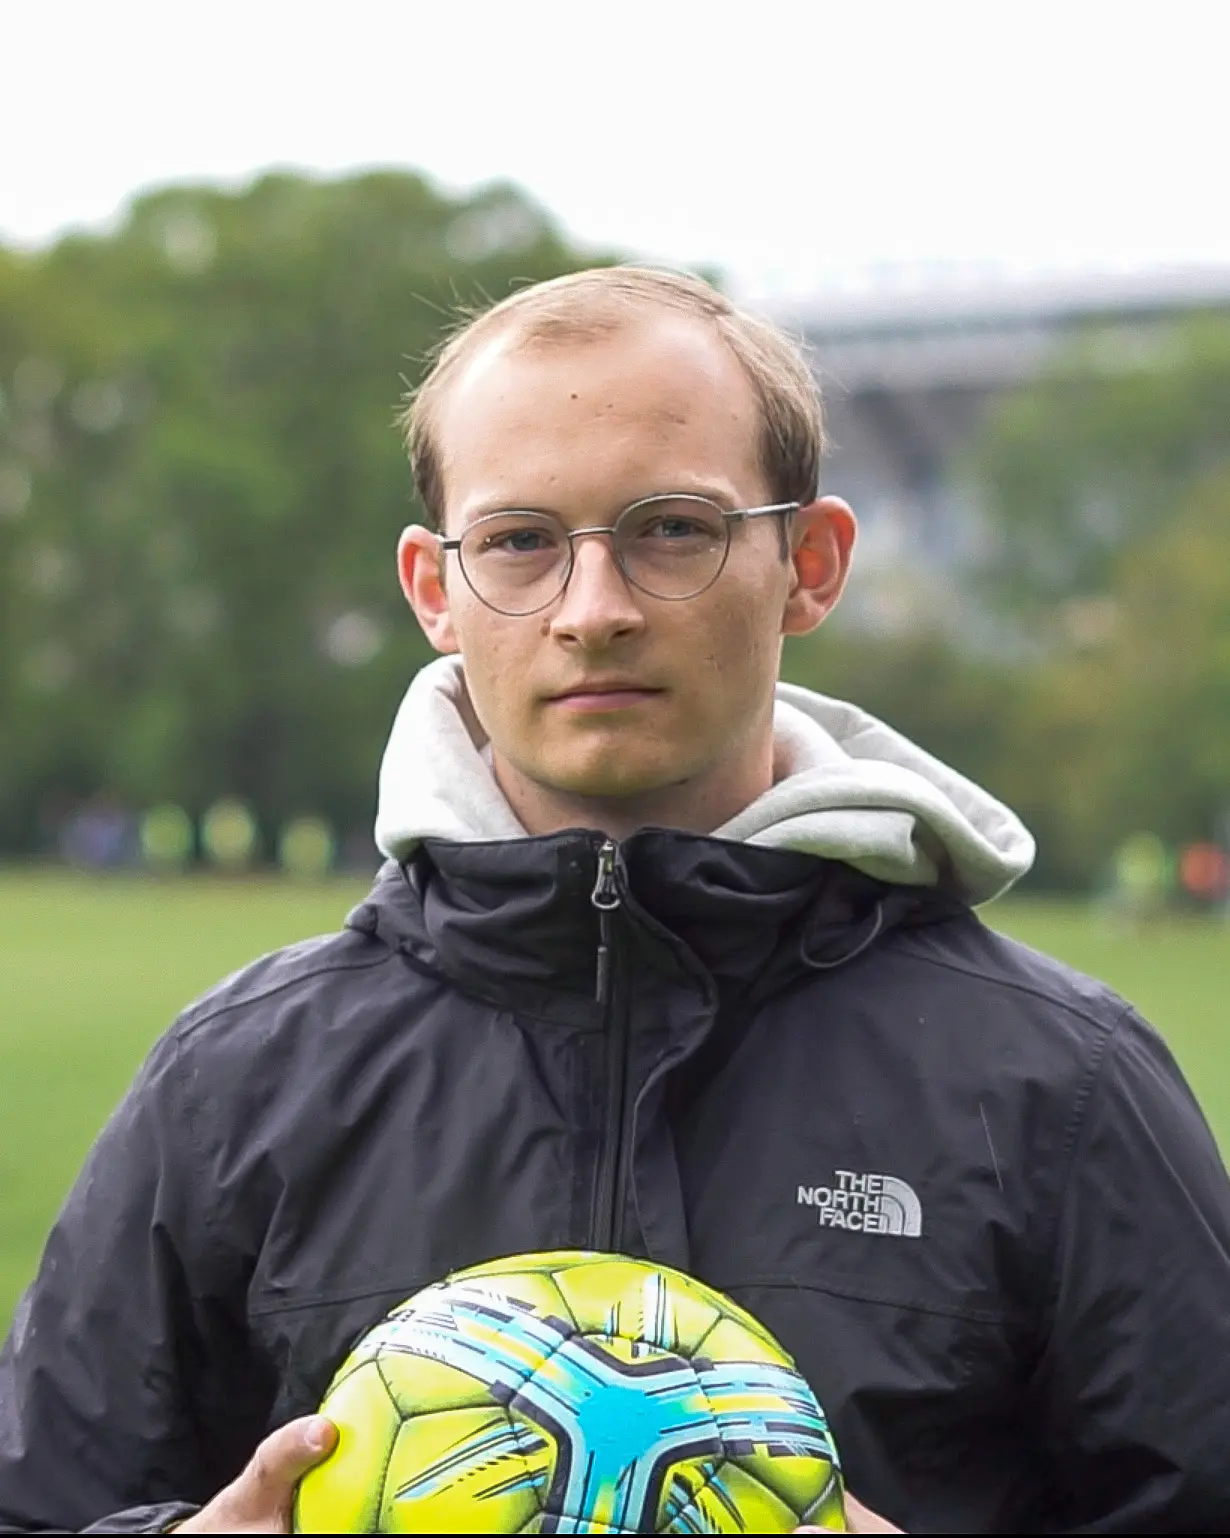
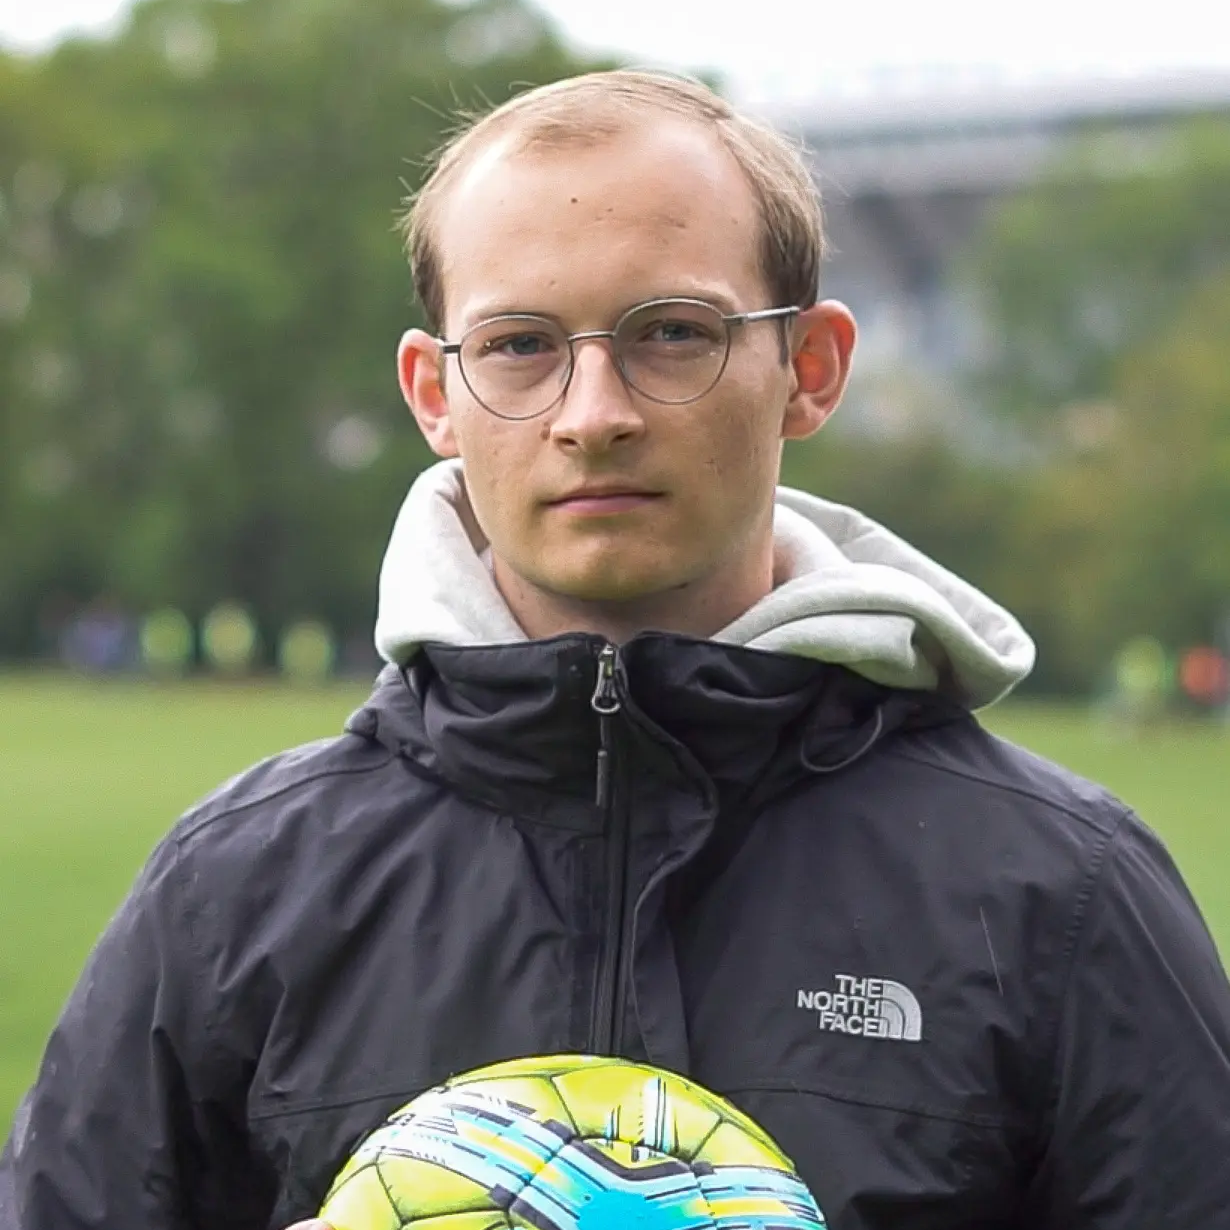
afleveringsklar....måske

diff --git a/index.html b/index.html
@@ -27,11 +27,13 @@
       <section>
         <div class="grid_1-1">
           <article>
-            <h1>Hvem er Albert?</h1>
-            <p>Lorem ipsum dolor sit, amet consectetur adipisicing elit. Non pariatur repellat excepturi consequatur possimus tempore,amet consectetur adipisicing elit. Non pariatur repellat excepturi consequatur possimus tempore,</p>
+            <div class="overskrift1">
+              <h1>Hvem er Albert?</h1>
+              <p>Lorem ipsum dolor sit, amet consectetur adipisicing elit. Non pariatur repellat excepturi consequatur possimus tempore,amet consectetur adipisicing elit. Non pariatur repellat excepturi consequatur possimus tempore,</p>
+            </div>
           </article>
 
-          <figure class="hvem_er_albert"><img src="img/portraet_halvtotal_5-4 (1).webp" alt="billede af Albert Kleiner" /></figure>
+          <figure class="hvem_er_albert"><img src="img/portraet_halvtotal_5-4.webp" alt="billede af Albert Kleiner" /></figure>
         </div>
       </section>
       <h2>Videoer om Albert Kleiner:</h2>

diff --git a/css/style.css b/css/style.css
@@ -58,7 +58,7 @@ article p {
 }
 
 .hvem_er_albert img {
-  margin: 2% 0%;
+  margin: 9% 0%;
 }
 
 iframe {
@@ -104,6 +104,7 @@ footer {
 .gal_section_grid {
   display: grid;
   grid-template-columns: repeat(auto-fit, minmax(280px, 1fr));
+  margin: 10px 0% 0%;
 }
 
 @media (min-width: 560px) {

diff --git a/layoutdiagram.html b/layoutdiagram.html
@@ -1,0 +1,5 @@
+<section>
+  <h2>Layoutdiagram for pilotside</h2>
+
+  <img src="img/layoutdiagram_pilotsite.png" alt="layoutdiagram" />
+</section>

diff --git a/css/generel.css b/css/generel.css
@@ -8,7 +8,7 @@ video {
   height: auto;
 }
 h2 {
-  margin: 12% 0% 4%;
+  margin: 5% 0% 4%;
   font-size: 2.3rem;
 }
 
